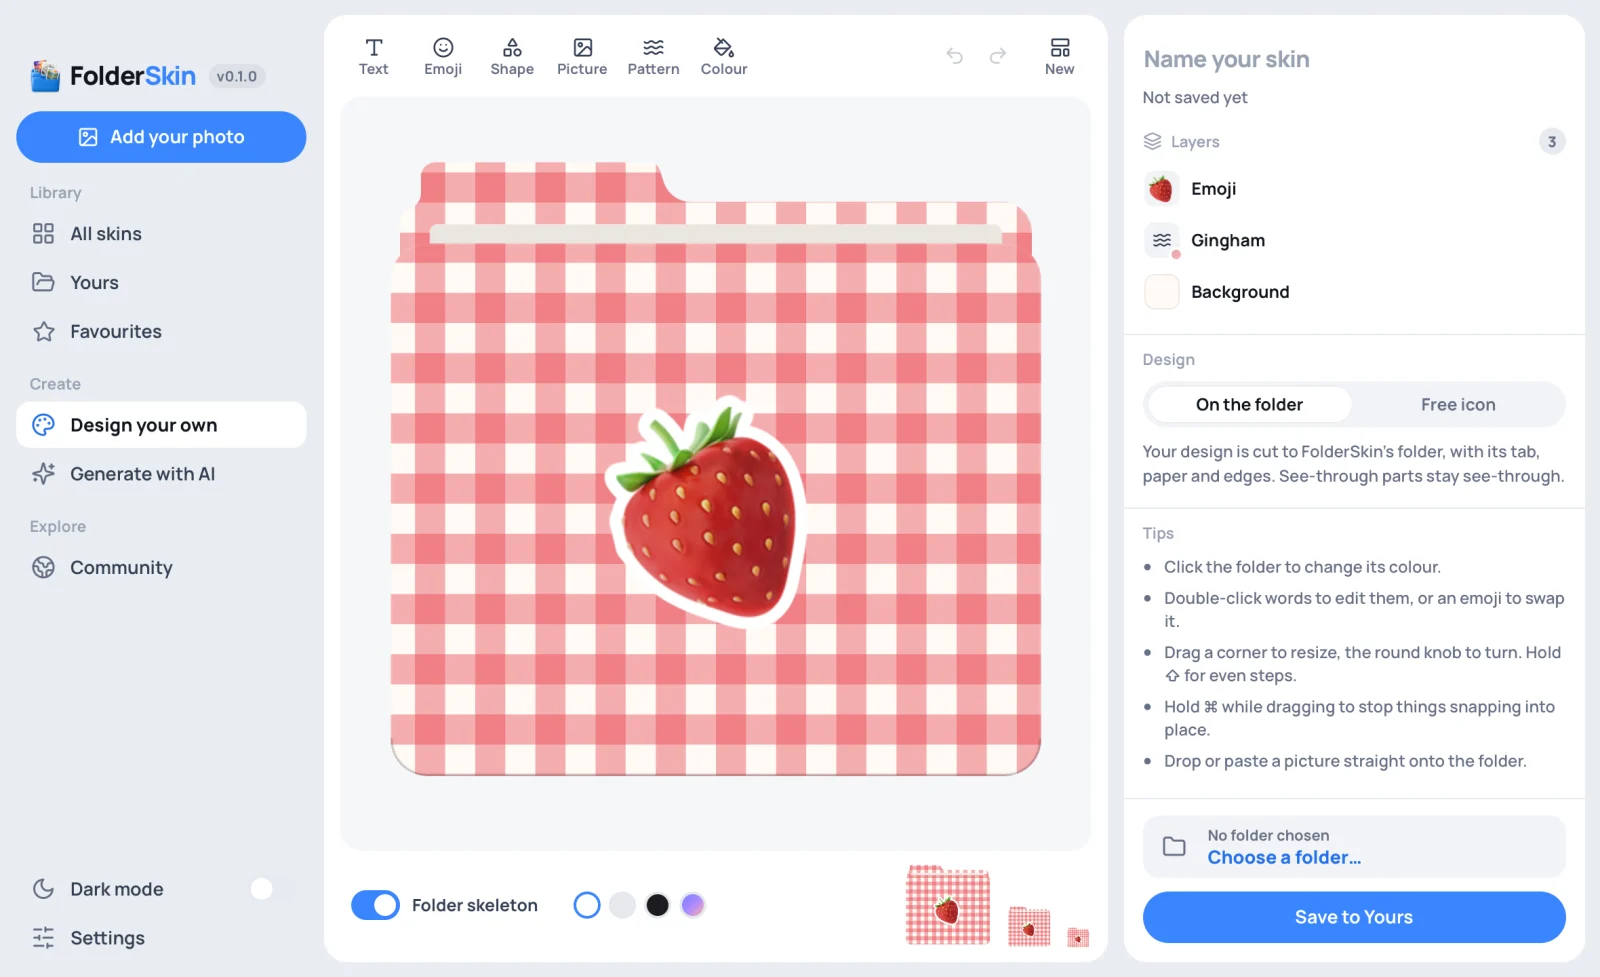
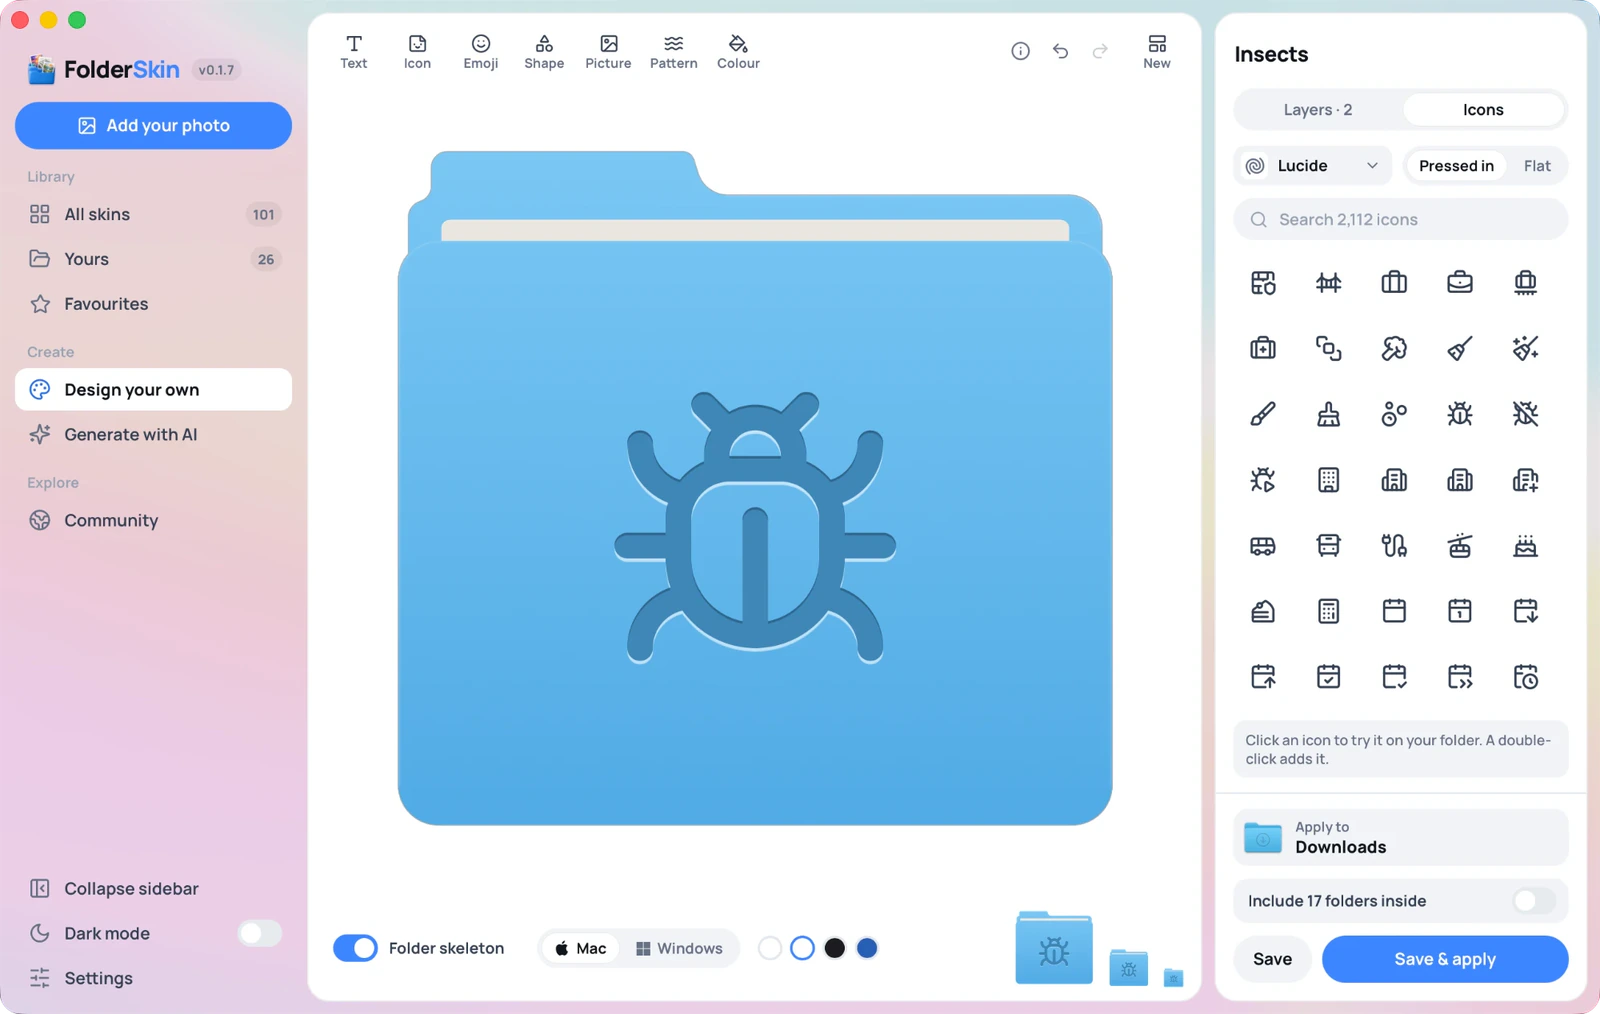
Show FolderSkin 0.1.7 in the README and the guides
The README's screenshots were of 0.1.0. It now opens on 0.1.7, light, with the dark one under
"Dark mode", both on the desktop. The composer screenshot is 0.1.7's, with its icon library, and
the composer guide opens with it too.

The AI guide and the README said AI was bring-your-own-key only, and the README sent people to
Settings → AI keys. They now say the Local Model paints for free on your own computer, as the app
and the website do, and that Settings → AI Provider is where you choose. The AI guide shows that
screen.

The composer and AI screenshots have the wallpaper at their corners cut away, as rounded
transparent corners.

diff --git a/README.md b/README.md
@@ -33,12 +33,12 @@ Free · Open source · No account · No tracking
 </div>
 
 <div align="center">
-  <img src="docs/images/app.webp" alt="FolderSkin on macOS: a library of painted folder skins in the middle, and the folder panel waiting for a folder on the right" width="100%" />
+  <img src="docs/images/app.webp" alt="FolderSkin 0.1.7 on macOS: the Scientists Pop Art pack in the library, and Isaac Newton tried on the Downloads folder" width="100%" />
 </div>
 
 <details><summary>Dark mode</summary>
 
-![FolderSkin in dark mode](docs/images/app-dark.png)
+![FolderSkin in dark mode](docs/images/app-dark.webp)
 
 </details>
 
@@ -146,21 +146,24 @@ details.
 
 <details><summary>The composer</summary>
 
-![Designing a skin: a gingham folder with a strawberry sticker, its layers and settings beside it](docs/images/composer.webp)
+![Designing a skin: a bug from the icon library pressed into a blue folder, with the icon search beside it](docs/images/composer.webp)
 
 </details>
 
 ## Generate a skin with AI
 
-FolderSkin can make a skin from a description, using **your own API key** from a provider you
-already use. The key is encrypted and stored on your computer (with no keychain password
-prompts), FolderSkin has no server of its own, and nothing is sent anywhere until you press
-Enter. Open **Generate with AI**, describe a scene, pick a style, and
+FolderSkin can make a skin from a description. The **Local Model** paints it on your own
+computer, for free: set it up once, and it needs no key and sends nothing anywhere. It runs on
+Apple silicon Macs with macOS 14 or later, and on Windows and Linux PCs. Or use **your own API
+key** from a provider you already use. The key is encrypted and stored on your computer (with no
+keychain password prompts), FolderSkin has no server of its own, and nothing is sent anywhere
+until you press Enter. Open **Generate with AI**, describe a scene, pick a style, and
 choose **Whole folder** (the model paints the whole folder from FolderSkin's template, like a
 poster) or **Just the art** (flat art wrapped onto FolderSkin's folder). Every result is saved to
 **Yours** and can be tried on at once.
 
-Paste a key into **Settings → AI keys**. Each provider's name links to the page where you make one.
+Choose where pictures are made in **Settings → AI Provider**: set up the Local Model there, or
+paste a key. Each provider's name links to the page where you make one.
 
 | | Provider | Models | Per image |
 | :-: | --- | --- | --- |

diff --git a/docs/AI.md b/docs/AI.md
@@ -1,11 +1,22 @@
 # The AI assistant
 
-FolderSkin can generate a skin from a description. The feature is **bring your own key**: you
-paste an API key from a provider you already have an account with, the key is saved in a private
-file on your computer, and FolderSkin talks to that provider directly from your machine.
+FolderSkin can generate a skin from a description, in one of two ways:
 
-There is no FolderSkin server, no proxy, no bundled key and no free tier to subsidise. Nothing
-is sent anywhere until you press **Generate**, and what is sent is your prompt, your chosen
+- **The Local Model** paints on your own computer, for free. Set it up once (FLUX.2 [klein] 4B, a
+  4.6 GB download on a Mac and 5.2 GB elsewhere), and it works offline with no key and nothing
+  sent anywhere. It runs on Apple silicon Macs with macOS 14 or later, and on Windows and Linux
+  PCs.
+- **Bring your own key**: you paste an API key from a provider you already have an account with,
+  the key is saved in a private file on your computer, and FolderSkin talks to that provider
+  directly from your machine.
+
+**Settings → AI Provider** is where you choose. A tick shows the Local Model is set up, or that a
+provider has a key.
+
+![Settings, AI Provider: the Local Model and seven providers, each ticked or marked No key, and the model on this machine below them](images/ai-providers.webp)
+
+There is no FolderSkin server, no proxy, no bundled key and no free tier to subsidise. With a key,
+nothing is sent anywhere until you press **Generate**, and what is sent is your prompt, your chosen
 size, and the reference picture if you picked one (for a whole folder without one, FolderSkin's
 own blank folder template).
 

diff --git a/docs/COMPOSER.md b/docs/COMPOSER.md
@@ -4,6 +4,8 @@
 to a heavily layered design. It works entirely offline. What you design is saved to **Yours** like
 any other skin, and **Save & apply** puts it straight on the folder you picked.
 
+![The composer: a bug from the icon library pressed into a blue folder, with the icon search beside it and Save & apply below](images/composer.webp)
+
 ## What people make with it
 
 | You want | Start from | Then |
